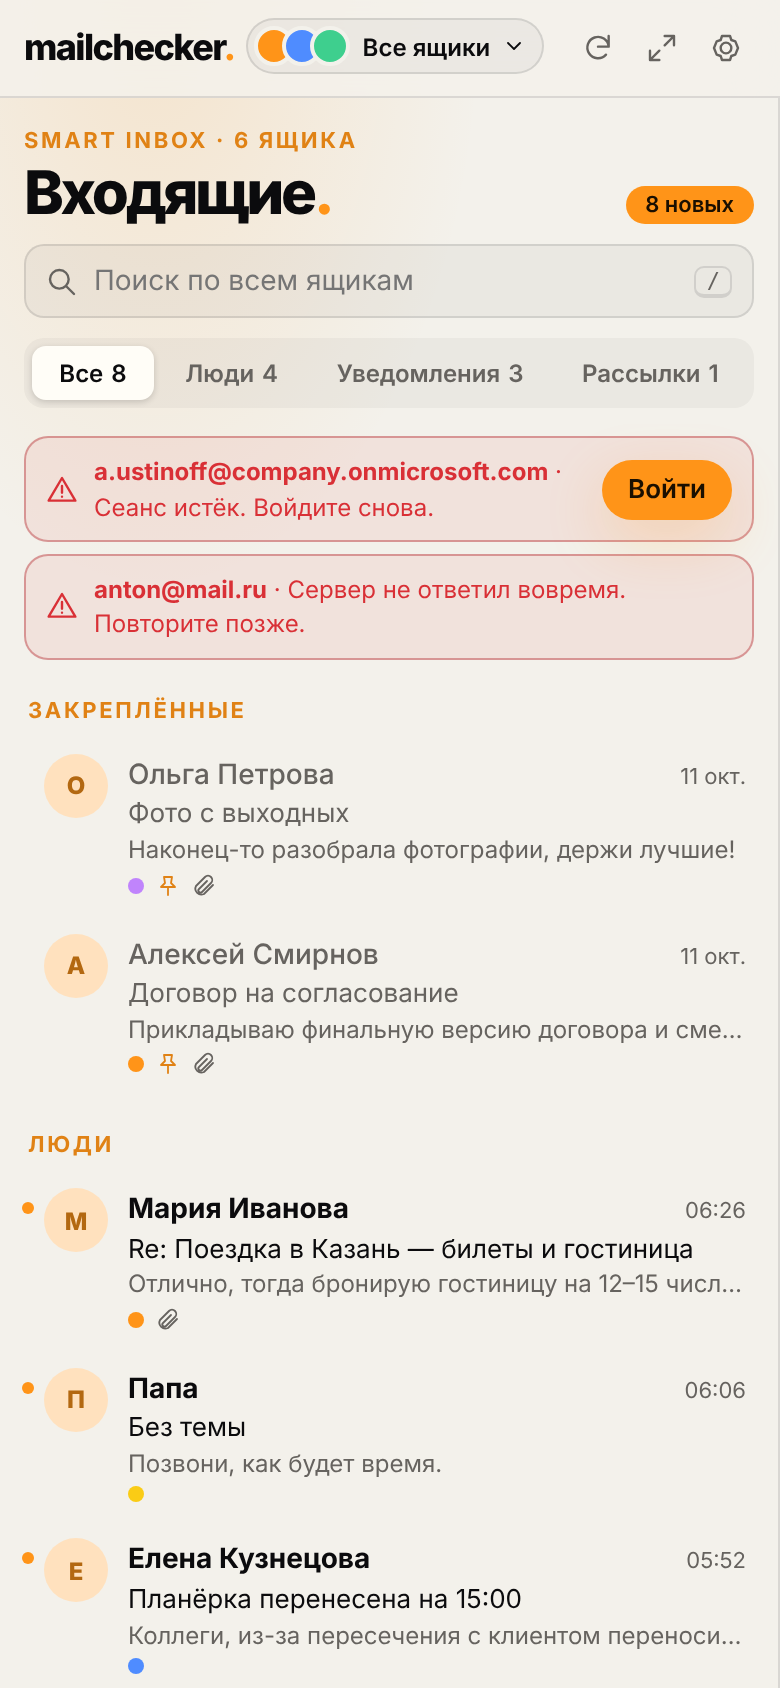
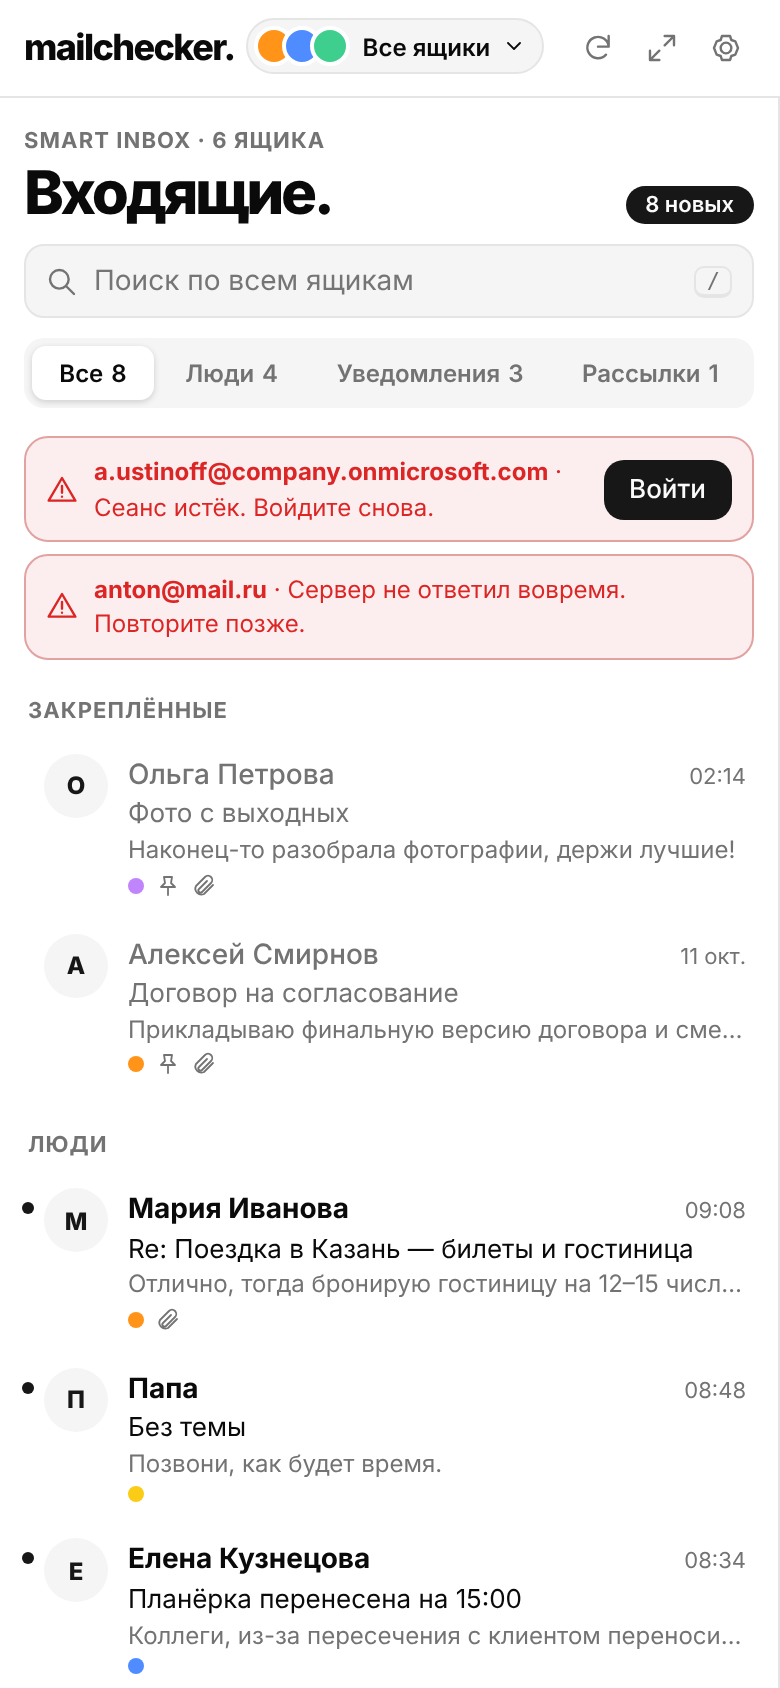
Add a mini popup, default to graphite and fix OAuth before the identity grant
- Settings → Оформление → Окно: a mini popup (400×600, one column).
- The default palette is black and white graphite; the pages start in it.
- Button text is dark or white, whichever has the higher APCA contrast.
- Disabled buttons are grey and flat with a not-allowed cursor.
- Gmail and Outlook sign-in is offered and the redirect URI is shown
  before the optional identity permission is granted; they were
  disabled and blank until then.
- Drop references to other products from docs and comments.
- Refresh the README screenshots and add the mini popup.

diff --git a/src/shared/preferences.ts b/src/shared/preferences.ts
@@ -9,7 +9,7 @@
  *
  * @module shared/preferences
  */
-import type {Palette, Preferences, Theme} from './types';
+import type {Palette, PopupSize, Preferences, Theme} from './types';
 
 /** Default preferences. */
 export const defaults: Readonly<Preferences> = Object.freeze({
@@ -17,24 +17,71 @@ export const defaults: Readonly<Preferences> = Object.freeze({
   notifications: true,
   limit: 30,
   theme: 'auto',
-  palette: 'orange',
+  palette: 'neutral',
+  popup: 'full',
 });
+
+/** Allowed popup sizes. */
+export const popupSizes: readonly PopupSize[] = Object.freeze(['full', 'mini']);
 
 /** Allowed theme values, in toggle order. */
 export const themes: readonly Theme[] = Object.freeze(['auto', 'light', 'dark']);
 
-/** Accent colours (Telegram iOS accents, our orange) and the text on them: white where it reaches 3:1. */
-export const accents: Readonly<Record<Exclude<Palette, 'neutral'>, {color: string; text: string}>> = Object.freeze({
-  orange: {color: '#ff9418', text: '#1a0f00'},
-  blue: {color: '#0088ff', text: '#ffffff'},
-  cyan: {color: '#00c2ed', text: '#1a0f00'},
-  green: {color: '#29b327', text: '#1a0f00'},
-  pink: {color: '#eb6ca4', text: '#1a0f00'},
-  purple: {color: '#9472ee', text: '#ffffff'},
-  red: {color: '#d33213', text: '#ffffff'},
-  yellow: {color: '#edb400', text: '#1a0f00'},
-  gray: {color: '#6d839e', text: '#ffffff'},
-});
+/** Dark text on light accents, matching the default orange button. */
+const DARK_TEXT = '#1a0f00';
+
+/** Light text on dark accents. */
+const LIGHT_TEXT = '#ffffff';
+
+/** Returns the APCA screen luminance of a `#rrggbb` colour, with the soft clamp for near-black. */
+function luminance(color: string): number {
+  const [r, g, b] = [1, 3, 5].map(index => (parseInt(color.slice(index, index + 2), 16) / 255) ** 2.4);
+  const y = 0.2126729 * r + 0.7151522 * g + 0.072175 * b;
+  return y < 0.022 ? y + (0.022 - y) ** 1.414 : y;
+}
+
+/**
+ * Returns the APCA lightness contrast (Lc, 0.0.98G-4g) of [text] on [background]: positive for dark text on a light
+ * background, negative for light text on a dark one.
+ */
+function contrast(text: string, background: string): number {
+  const [foreground, back] = [luminance(text), luminance(background)];
+  if (Math.abs(back - foreground) < 0.0005) return 0;
+  if (back > foreground) {
+    const value = (back ** 0.56 - foreground ** 0.57) * 1.14;
+    return value < 0.1 ? 0 : (value - 0.027) * 100;
+  }
+  const value = (back ** 0.65 - foreground ** 0.62) * 1.14;
+  return value > -0.1 ? 0 : (value + 0.027) * 100;
+}
+
+/**
+ * Returns the text colour that reads best on [background]: dark or white, whichever has the higher APCA contrast.
+ *
+ * @param background A `#rrggbb` colour.
+ */
+export function textOn(background: string): string {
+  return Math.abs(contrast(LIGHT_TEXT, background)) > Math.abs(contrast(DARK_TEXT, background))
+    ? LIGHT_TEXT
+    : DARK_TEXT;
+}
+
+/** Accent colours and the text on them, chosen by contrast. */
+export const accents: Readonly<Record<Exclude<Palette, 'neutral'>, {color: string; text: string}>> = Object.freeze(
+  Object.fromEntries(
+    Object.entries({
+      orange: '#ff9418',
+      blue: '#0088ff',
+      cyan: '#00c2ed',
+      green: '#29b327',
+      pink: '#eb6ca4',
+      purple: '#9472ee',
+      red: '#d33213',
+      yellow: '#edb400',
+      gray: '#6d839e',
+    }).map(([name, color]) => [name, {color, text: textOn(color)}]),
+  ) as Record<Exclude<Palette, 'neutral'>, {color: string; text: string}>,
+);
 
 /** Allowed palette values, in picker order. */
 export const palettes: readonly Palette[] = Object.freeze([
@@ -68,5 +115,6 @@ export function preferences(value: Partial<Record<keyof Preferences, unknown>> =
     limit: Math.round(bounded(value.limit, 1, 50, defaults.limit)),
     theme: themes.includes(value.theme as Theme) ? (value.theme as Theme) : defaults.theme,
     palette: palettes.includes(value.palette as Palette) ? (value.palette as Palette) : defaults.palette,
+    popup: popupSizes.includes(value.popup as PopupSize) ? (value.popup as PopupSize) : defaults.popup,
   };
 }

diff --git a/src/options/index.ts b/src/options/index.ts
@@ -14,8 +14,8 @@
 import {applyTheme, byID, el, errorMessage, request} from '../shared/dom';
 import {initial, shortDate} from '../shared/format';
 import {icon, providerMark} from '../shared/icons';
-import {accents, palettes, themes} from '../shared/preferences';
-import type {Palette, Preferences, ProviderID, PublicState, Request, Theme} from '../shared/types';
+import {accents, palettes, popupSizes, themes} from '../shared/preferences';
+import type {Palette, PopupSize, Preferences, ProviderID, PublicState, Request, Theme} from '../shared/types';
 
 /** The rendered public state. */
 let state: PublicState | null = null;
@@ -25,6 +25,9 @@ const statusLine = byID('status');
 
 /** Theme labels by preference. */
 const themeNames: Record<Theme, string> = {auto: 'Авто', light: 'Светлая', dark: 'Тёмная'};
+
+/** Popup size labels by preference. */
+const popupNames: Record<PopupSize, string> = {full: 'Полное', mini: 'Мини'};
 
 /** Palette names; the swatch colours come from `accents`. */
 const paletteNames: Record<Palette, string> = {
@@ -225,17 +228,29 @@ function renderProviders({oauth}: PublicState): void {
   );
 }
 
-/** Renders the theme and palette controls. */
-function renderAppearance({theme, palette}: Preferences): void {
-  byID('theme-control').replaceChildren(
-    ...themes.map(value =>
+/** Renders a segmented control that saves preference [key]. */
+function renderSegmented<K extends 'theme' | 'popup'>(
+  id: string,
+  key: K,
+  values: readonly Preferences[K][],
+  names: Record<Preferences[K], string>,
+  current: Preferences[K],
+): void {
+  byID(id).replaceChildren(
+    ...values.map(value =>
       el(
         'button',
-        {type: 'button', 'aria-pressed': String(theme === value), onclick: () => save({theme: value})},
-        themeNames[value],
+        {type: 'button', 'aria-pressed': String(current === value), onclick: () => save({[key]: value})},
+        names[value],
       ),
     ),
   );
+}
+
+/** Renders the theme, popup size and palette controls. */
+function renderAppearance({theme, popup, palette}: Preferences): void {
+  renderSegmented('theme-control', 'theme', themes, themeNames, theme);
+  renderSegmented('popup-control', 'popup', popupSizes, popupNames, popup);
   byID('palette-control').replaceChildren(
     ...palettes.map(value =>
       el('button', {
@@ -260,7 +275,7 @@ function renderOAuth({oauth}: PublicState): void {
       'div',
       {class: 'oauth-row'},
       el('span', {class: 'tile'}, providerMark(provider)),
-      el('div', {}, el('strong', {}, name), el('code', {}, uri)),
+      el('div', {}, el('strong', {}, name), uri && el('code', {}, uri)),
       el('span', {class: configured ? 'pill strong' : 'pill'}, configured ? 'Настроен' : 'Нет ID'),
     );
   byID('oauth').replaceChildren(

diff --git a/src/background/oauth/flow.ts b/src/background/oauth/flow.ts
@@ -16,7 +16,7 @@
  */
 import type {Credentials} from '../../shared/types';
 import {AuthError, HTTPError, requestJSON} from '../http';
-import {hasIdentity} from '../platform';
+import {hasIdentity, supportsIdentity} from '../platform';
 import {oauthConfig as config} from './config';
 
 /** OAuth providers. */
@@ -33,12 +33,13 @@ const MICROSOFT = 'https://login.microsoftonline.com/common/oauth2/v2.0';
 
 /** Returns whether a provider has a client ID in this build. */
 export function available(provider: OAuthProvider): boolean {
-  return hasIdentity() && /^[\w.-]{8,256}$/.test(config[provider]);
+  return supportsIdentity() && /^[\w.-]{8,256}$/.test(config[provider]);
 }
 
 /** Returns the callback URL registered for a provider: `https://<extension-id>.chromiumapp.org/<provider>`. */
 export function redirectURI(provider: OAuthProvider): string {
-  return hasIdentity() ? chrome.identity.getRedirectURL(provider) : '';
+  if (hasIdentity()) return chrome.identity.getRedirectURL(provider);
+  return supportsIdentity() ? `https://${chrome.runtime.id}.chromiumapp.org/${provider}` : '';
 }
 
 /** Returns the client ID or throws a user-facing error. */

diff --git a/src/background/platform.ts b/src/background/platform.ts
@@ -18,8 +18,16 @@ declare const __TARGET__: 'chromium' | 'safari';
 /** The package this bundle was built for. */
 export const target: 'chromium' | 'safari' = typeof __TARGET__ === 'string' ? __TARGET__ : 'chromium';
 
-/** Whether the browser can run an OAuth window for the extension. */
+/** Whether the browser can run an OAuth window for the extension right now. */
 export const hasIdentity = (): boolean => typeof chrome.identity?.launchWebAuthFlow === 'function';
+
+/**
+ * Whether OAuth sign-in can work in this browser.
+ *
+ * Chromium declares `identity` as an optional permission: `chrome.identity` is missing until the user grants it from
+ * Settings, so sign-in is offered before the grant. Safari has no `identity` at all.
+ */
+export const supportsIdentity = (): boolean => hasIdentity() || target === 'chromium';
 
 /** Whether system notifications are available to the extension. */
 export const hasNotifications = (): boolean => typeof chrome.notifications?.create === 'function';

diff --git a/src/sandbox/worker.ts b/src/sandbox/worker.ts
@@ -28,7 +28,11 @@ function current(): Fixtures & {preferences: Preferences} {
     const query = new URLSearchParams(location.search);
     data = {
       ...createFixtures(Date.now()),
-      preferences: preferences({theme: query.get('theme') ?? undefined, palette: query.get('palette') ?? undefined}),
+      preferences: preferences({
+        theme: query.get('theme') ?? undefined,
+        palette: query.get('palette') ?? undefined,
+        popup: query.get('popup') ?? undefined,
+      }),
     };
   }
   return data;
@@ -41,7 +45,14 @@ function state(): PublicState {
     preferences,
     accounts,
     mailboxes,
-    oauth: {google: true, microsoft: true, redirect: {google: '', microsoft: ''}},
+    oauth: {
+      google: true,
+      microsoft: true,
+      redirect: {
+        google: 'https://sandbox.chromiumapp.org/google',
+        microsoft: 'https://sandbox.chromiumapp.org/microsoft',
+      },
+    },
   };
 }
 

diff --git a/src/shared/types.ts b/src/shared/types.ts
@@ -20,8 +20,11 @@ export type ProviderID = 'gmail' | 'outlook' | 'jmap' | 'yandex' | 'mailru' | 'i
 /** Theme preference: follow the system or force a scheme. */
 export type Theme = 'auto' | 'light' | 'dark';
 
-/** Palette preference: a warm palette with an accent colour (Telegram iOS accents), or monochrome graphite. */
+/** Palette preference: a warm palette with an accent colour, or monochrome graphite. */
 export type Palette = 'orange' | 'blue' | 'cyan' | 'green' | 'pink' | 'purple' | 'red' | 'yellow' | 'gray' | 'neutral';
+
+/** Toolbar popup size: the two-column client or a narrow one-column client. */
+export type PopupSize = 'full' | 'mini';
 
 /** Normalized user preferences. */
 export interface Preferences {
@@ -33,6 +36,7 @@ export interface Preferences {
   limit: number;
   theme: Theme;
   palette: Palette;
+  popup: PopupSize;
 }
 
 /** Access credentials; only the service worker sees them. */

diff --git a/src/options/options.html b/src/options/options.html
@@ -4,7 +4,7 @@
   Copyright (C) 2026 Anton Ustinoff
   https://github.com/ziqq/mailchecker/blob/main/LICENSE
 -->
-<html lang="ru">
+<html lang="ru" data-palette="neutral">
   <head>
     <meta charset="utf-8" />
     <meta name="viewport" content="width=device-width,initial-scale=1" />
@@ -77,6 +77,13 @@
             <p>Светлая, тёмная или как в системе.</p>
           </div>
           <div class="segmented" id="theme-control"></div>
+        </div>
+        <div class="field-row">
+          <div>
+            <strong>Окно</strong>
+            <p>Размер окна по кнопке в панели браузера.</p>
+          </div>
+          <div class="segmented" id="popup-control"></div>
         </div>
         <div class="field-row">
           <div>

diff --git a/src/styles/_components.scss b/src/styles/_components.scss
@@ -89,11 +89,6 @@ input {
   &:active {
     transform: scale(0.98);
   }
-  &:disabled {
-    opacity: 0.5;
-    cursor: default;
-    transform: none;
-  }
   &.primary {
     background: var(--primary);
     color: var(--primary-text);
@@ -102,6 +97,17 @@ input {
     &:hover {
       filter: brightness(1.07);
     }
+  }
+  // Grey and flat in every palette, so an unavailable action never looks like the accent one.
+  &:disabled,
+  &.primary:disabled {
+    border-color: var(--border);
+    background: var(--surface-2);
+    color: var(--muted);
+    box-shadow: none;
+    filter: none;
+    transform: none;
+    cursor: not-allowed;
   }
   &.small {
     min-height: 30px;

diff --git a/design/popup-mockup.html b/design/popup-mockup.html
@@ -693,7 +693,7 @@
 
       <!-- Design notes (toggle in the panel) -->
       <div class="callout" style="top: 120px; left: 40px">
-        <b>1. Окно как у Checker Plus</b>Клик по иконке открывает полноценный клиент 780×600: список + чтение + ответ.
+        <b>1. Окно в панели браузера</b>Клик по иконке открывает полноценный клиент 780×600: список + чтение + ответ.
         Кнопка ⤢ — развернуть во вкладку (3 колонки).
       </div>
       <div class="callout" style="top: 260px; left: 40px">

diff --git a/src/client/client.scss b/src/client/client.scss
@@ -11,7 +11,7 @@
 //
 // popup (780×600) and medium tabs:  topbar / list | reader
 // wide tabs (≥ 1100px):             sidebar | list | reader
-// narrow (< 700px, iOS popup):      topbar / list ↔ reader (one at a time)
+// narrow (< 700px, mini popup 400×600, iOS popup): topbar / list ↔ reader (one at a time)
 
 html,
 body,
@@ -25,6 +25,10 @@ body {
 html[data-mode='popup']:not([data-narrow='true']) body {
   width: 780px;
   height: 600px;
+}
+// The mini popup is narrow enough for the one-column layout below.
+html[data-mode='popup'][data-size='mini']:not([data-narrow='true']) body {
+  width: 400px;
 }
 html[data-narrow='true'] body {
   width: 100vw;

diff --git a/src/sandbox/index.html b/src/sandbox/index.html
@@ -79,6 +79,10 @@
         <iframe src="popup.html" width="780" height="600" title="Попап"></iframe>
       </figure>
       <figure>
+        <figcaption>Мини-попап 400×600</figcaption>
+        <iframe src="popup.html?popup=mini" width="400" height="600" title="Мини-попап"></iframe>
+      </figure>
+      <figure>
         <figcaption>Телефон 390×844</figcaption>
         <iframe src="app.html" width="390" height="844" title="Телефон"></iframe>
       </figure>

diff --git a/src/client/index.tsx b/src/client/index.tsx
@@ -71,7 +71,9 @@ function onKey(event: KeyboardEvent): void {
 function App() {
   createEffect(() => {
     const preferences = store.state()?.preferences;
-    if (preferences) applyTheme(preferences);
+    if (!preferences) return;
+    applyTheme(preferences);
+    document.documentElement.dataset.size = preferences.popup;
   });
   onMount(() => {
     store.load();
